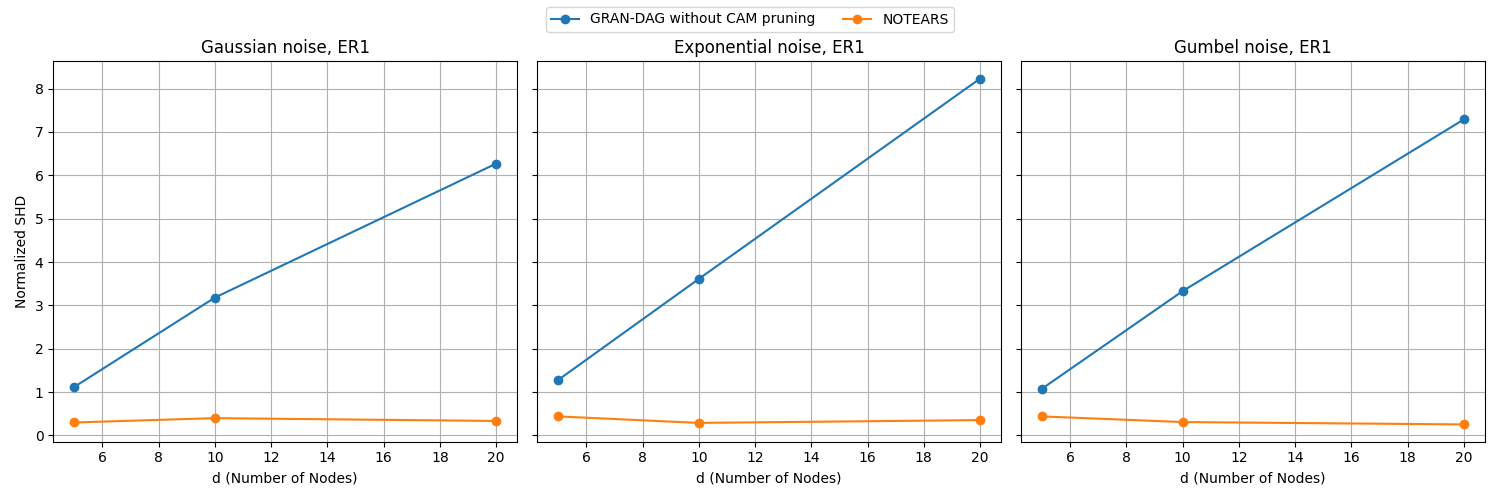
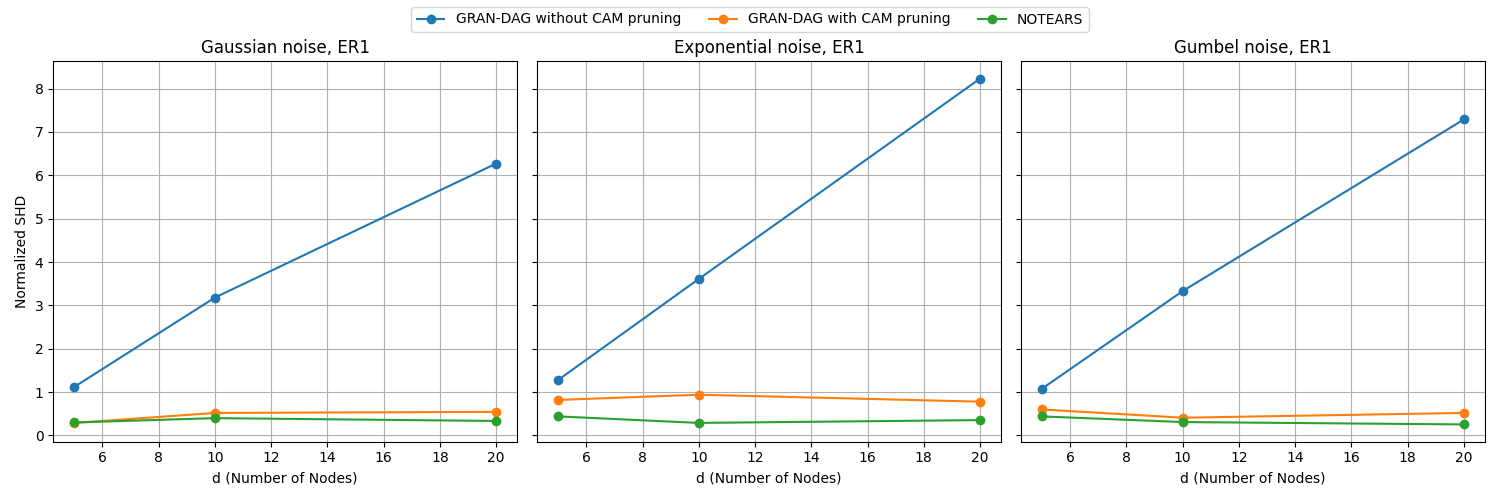
we want the orange line

diff --git a/examples/grandag/shd_no_cam/reconstruct.py b/examples/grandag/shd_no_cam/reconstruct.py
@@ -7,7 +7,7 @@ import matplotlib.pyplot as plt
 num_nodes = [5, 10, 20]
 s0_ratios = [1]
 noise_types = ["gauss", "exp", "gumbel"]
-methods = ["GRAN-DAG-NCAM", "NOTEARS"]
+methods = ["GRAN-DAG-NCAM", "GRAN-DAG", "NOTEARS"]
 
 noise_names = {
     "gauss": "Gaussian",
@@ -17,6 +17,7 @@ noise_names = {
 
 method_labels = {
     "GRAN-DAG-NCAM": "GRAN-DAG without CAM pruning",
+    "GRAN-DAG": "GRAN-DAG with CAM pruning",
     "NOTEARS": "NOTEARS"
 }
 
